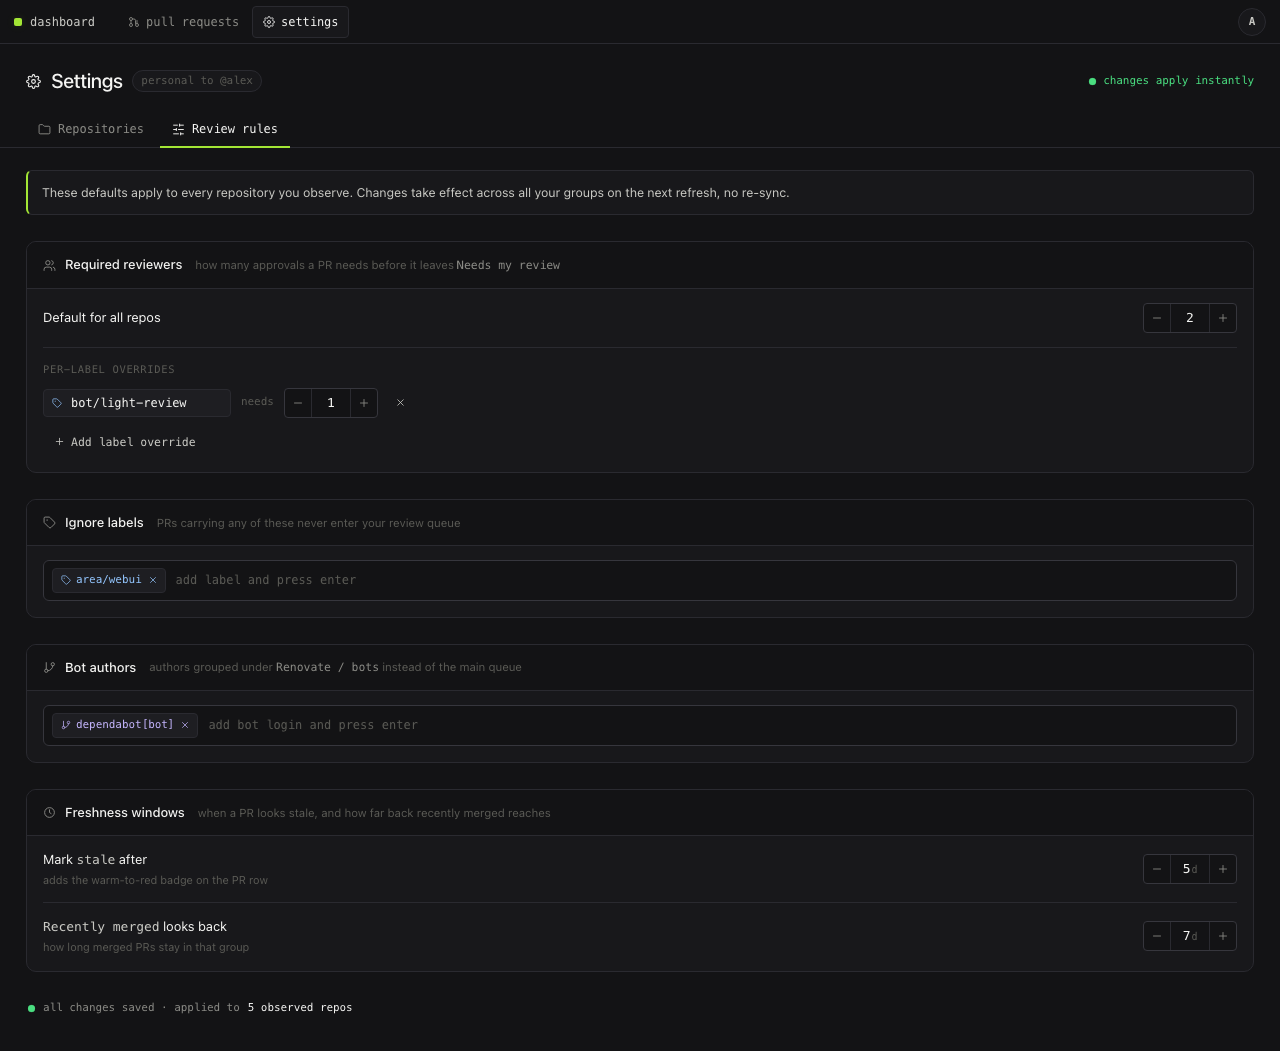
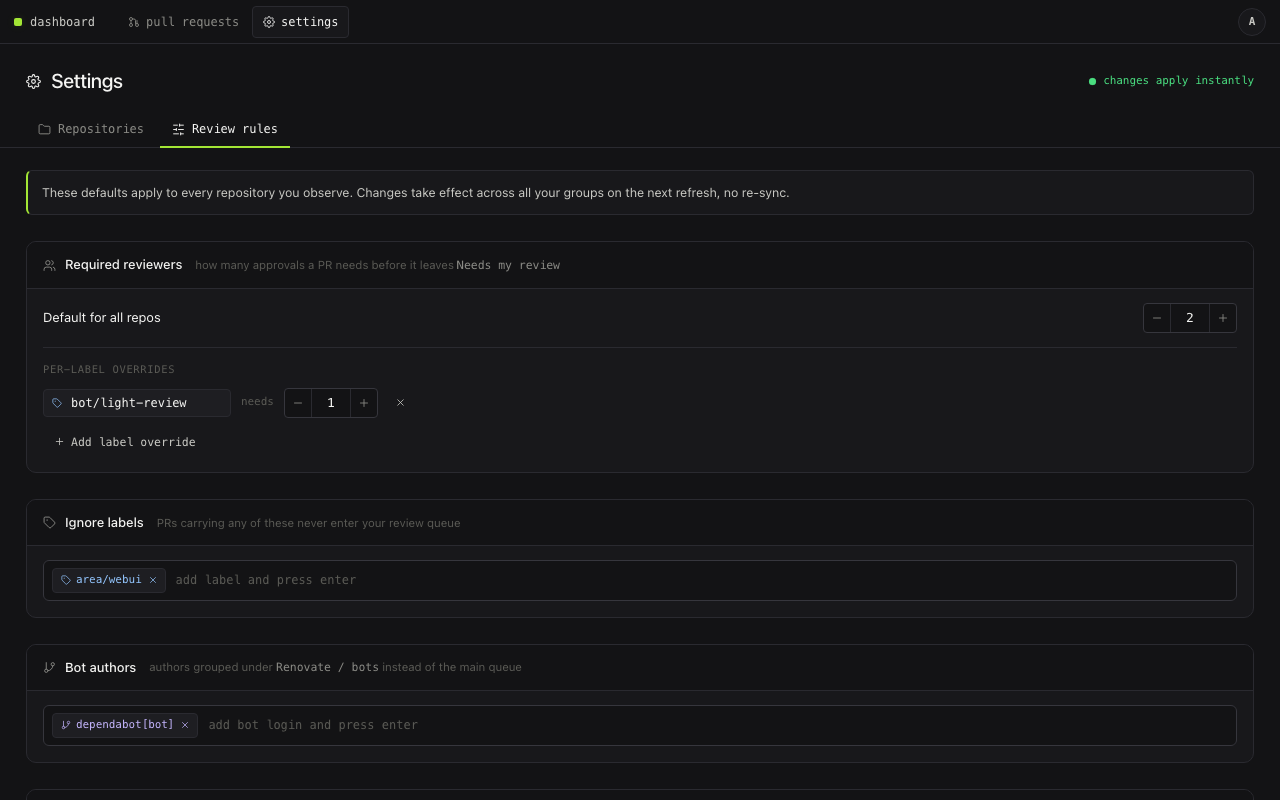
feat(app): drop the 'personal to @user' scope chip from settings header
The settings are obviously per-user; the chip stated the obvious. Removes
the now-unused useAuth dependency and .set-scope style.

diff --git a/app/src/components/settings/atoms.jsx b/app/src/components/settings/atoms.jsx
@@ -1,6 +1,5 @@
 import { useState } from "react";
 
-import { useAuth } from "../../api/authContext.js";
 import Avatar from "../Avatar.jsx";
 import Icon from "../Icon.jsx";
 
@@ -101,7 +100,6 @@ const TABS = [
  * `ready` flips data-settings-ready once the screen's data has loaded, which the
  * e2e/screenshot harness waits on (mirrors the dashboard's data-prs-loaded). */
 export function SettingsShell({ tab, ready = true, children }) {
-  const auth = useAuth();
   return (
     <div className="settings" data-settings-ready={ready ? "true" : "false"}>
       <header className="set-head">
@@ -109,7 +107,6 @@ export function SettingsShell({ tab, ready = true, children }) {
           <div className="set-title">
             <Icon name="settings" size={15} />
             <h1>Settings</h1>
-            <span className="set-scope mono">personal to @{auth.login}</span>
           </div>
           <div className="set-saved mono"><span className="hdot success live" />changes apply instantly</div>
         </div>

diff --git a/app/src/styles/settings.css b/app/src/styles/settings.css
@@ -139,7 +139,6 @@
 .set-head-top { display: flex; align-items: center; gap: 16px; margin-bottom: 16px; }
 .set-title { display: flex; align-items: center; gap: 10px; }
 .set-title h1 { margin: 0; font-size: 20px; font-weight: 500; letter-spacing: -0.02em; color: var(--fg-0); }
-.set-scope { font-size: 11px; color: var(--fg-3); background: var(--bg-2); border: 1px solid var(--border-1); padding: 2px 8px; border-radius: 999px; }
 .set-saved {
   margin-left: auto;
   display: flex; align-items: center; gap: 7px;